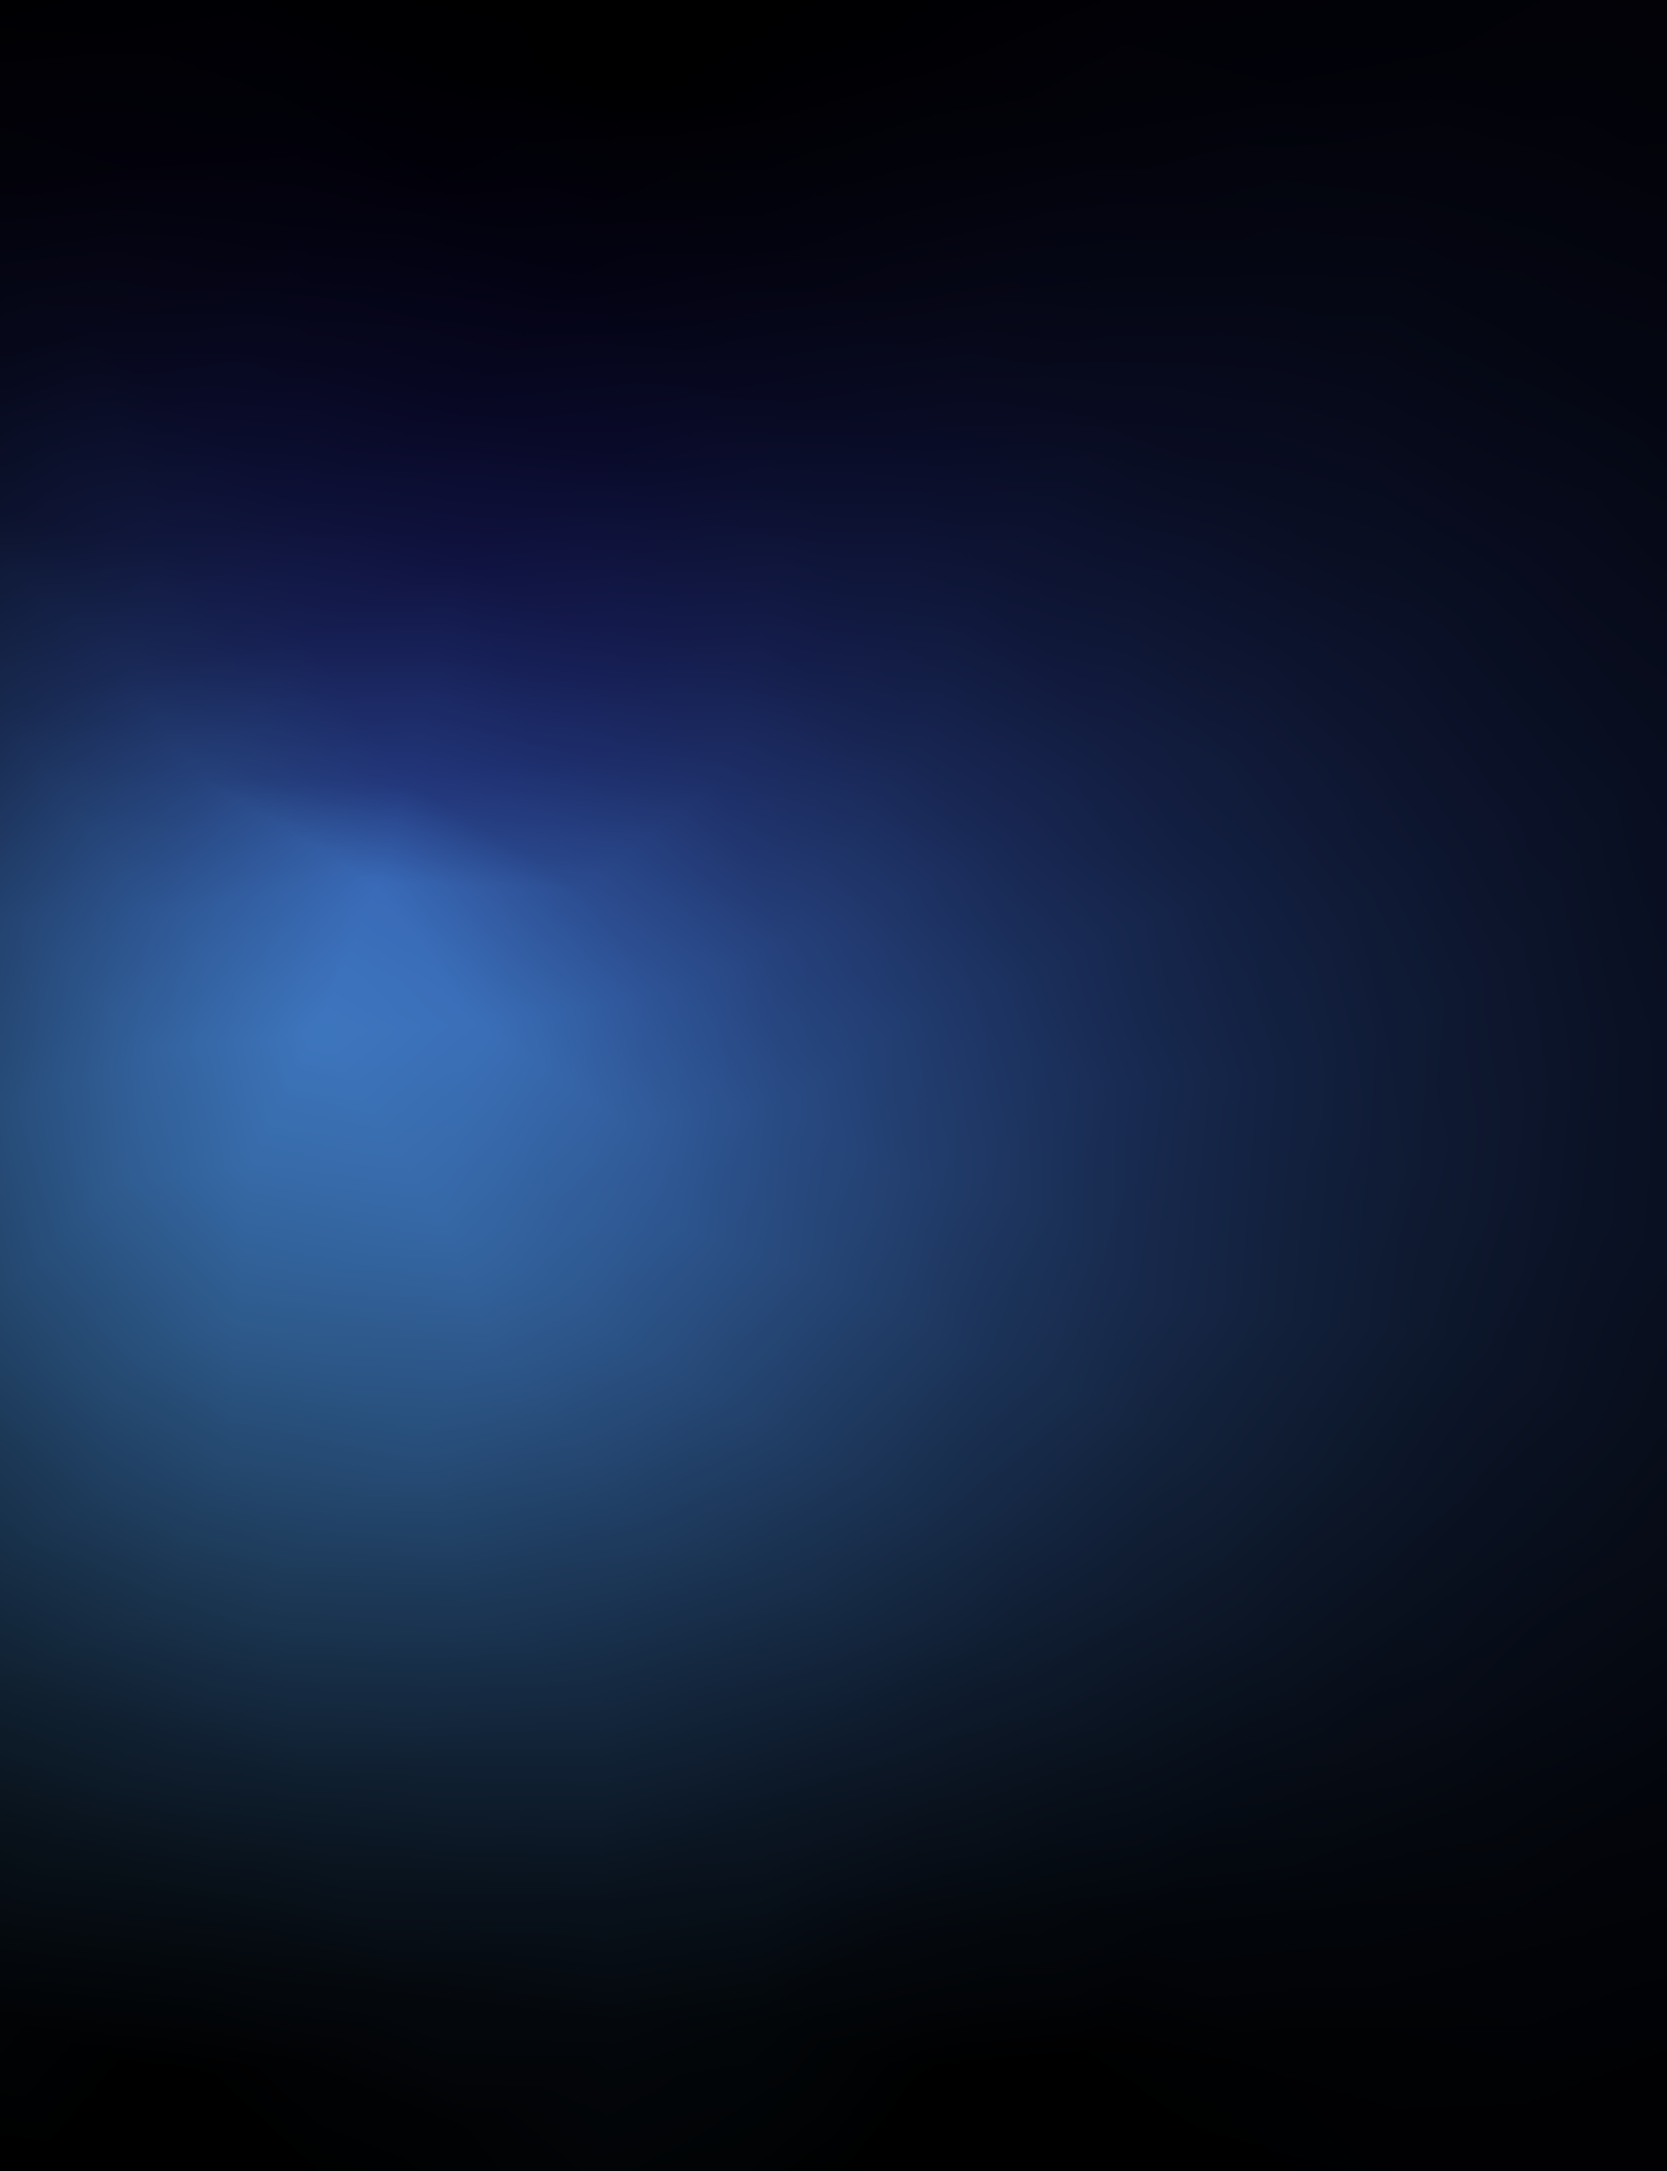
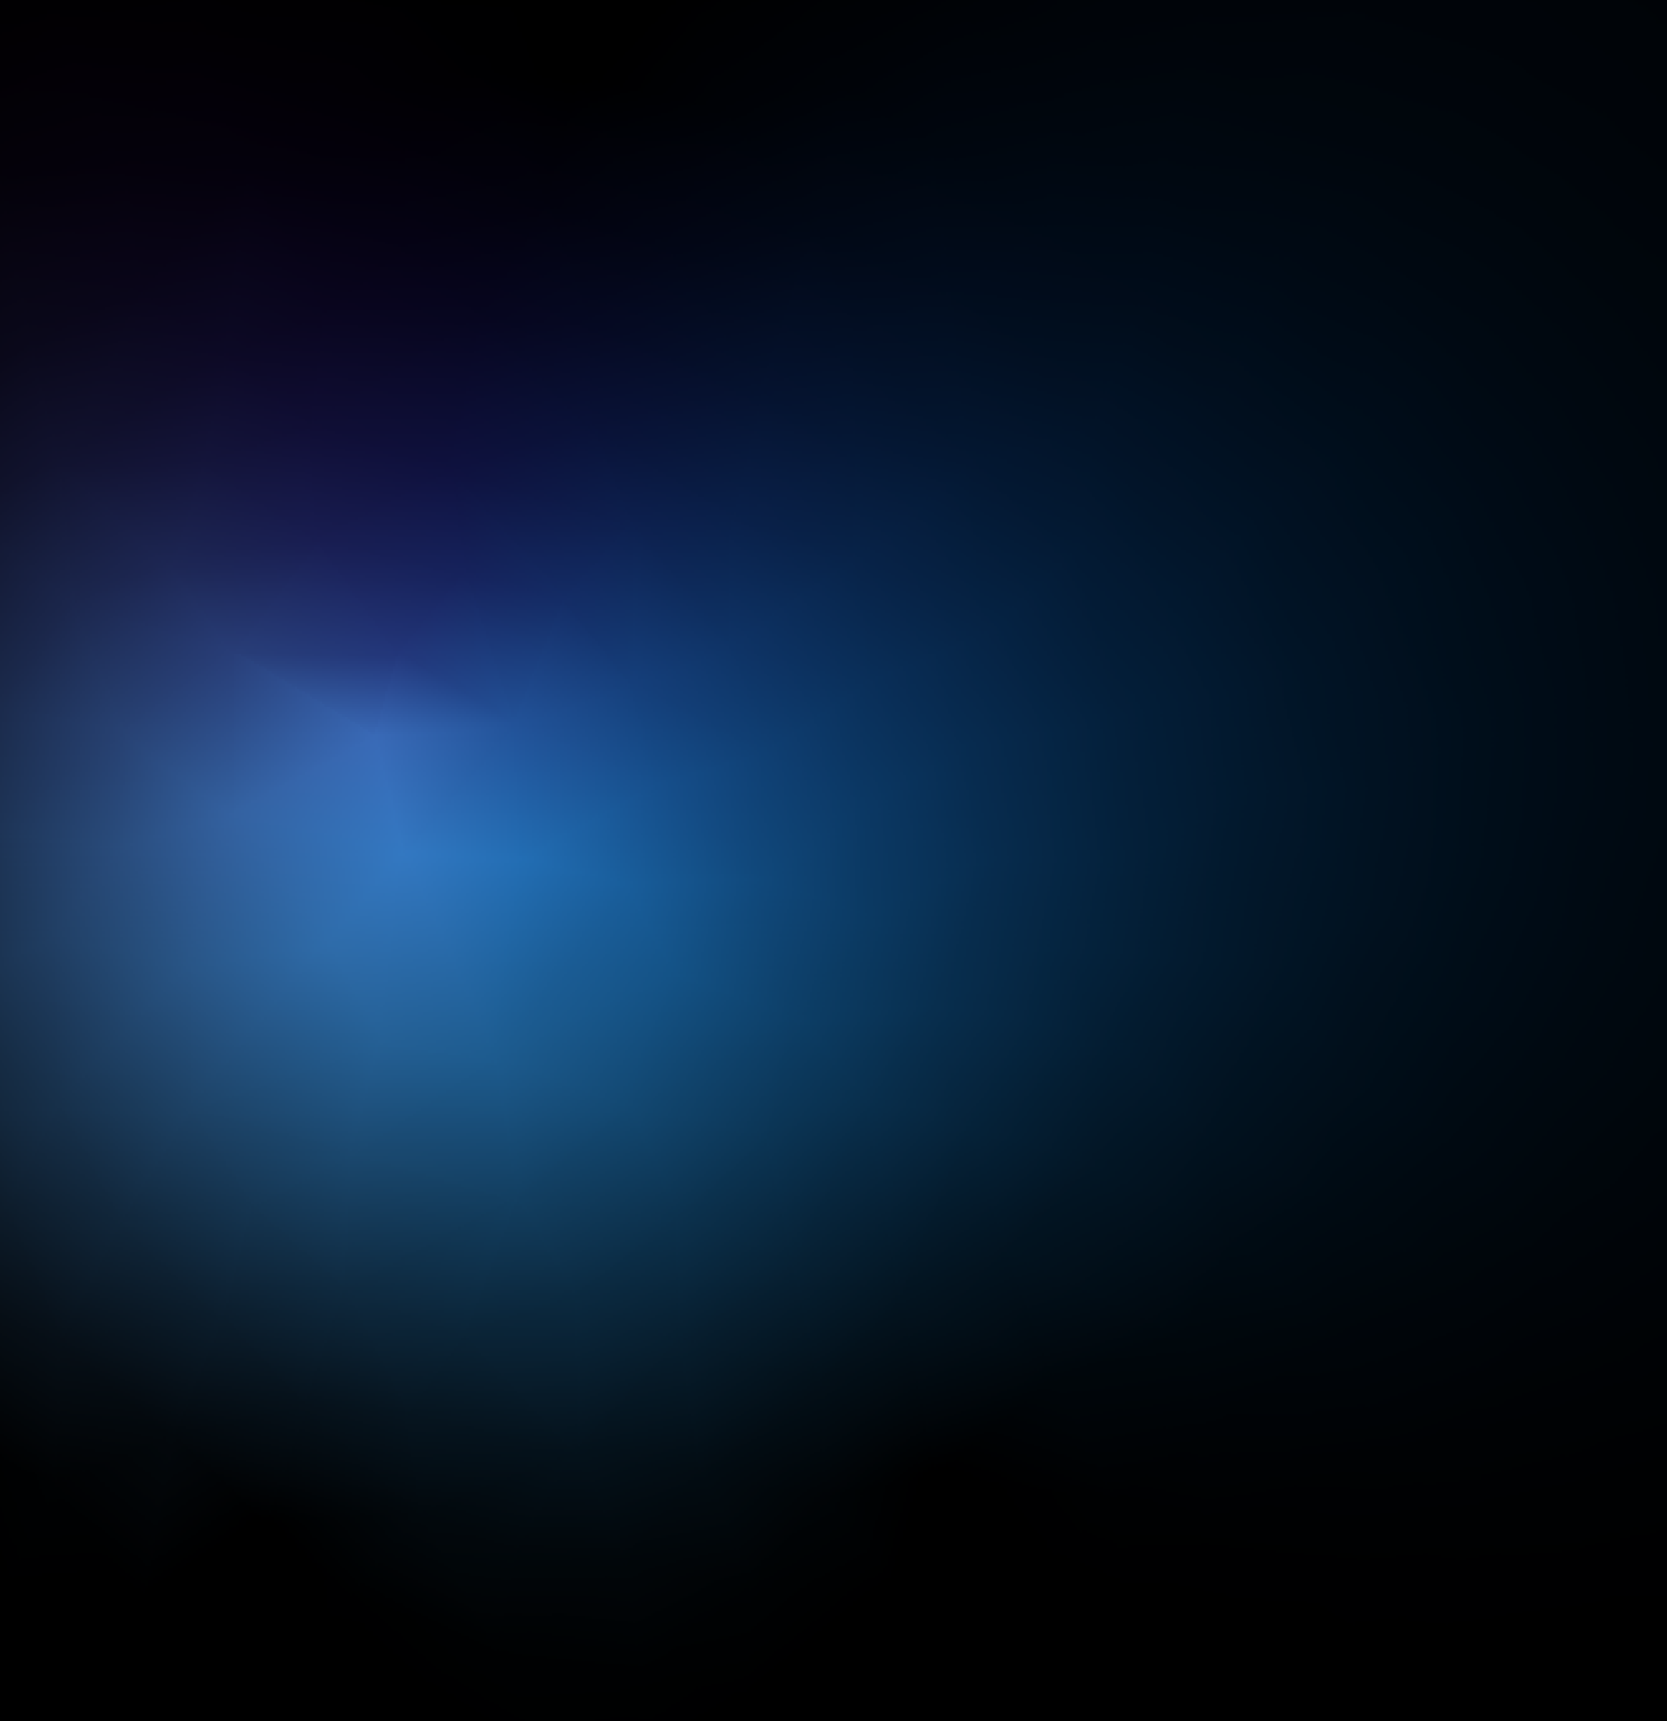
Fix background issues with new image files.

Changed region(s): [[0.3418, 0.4671, 0.8389, 0.7785], [0.0, 0.3426, 0.1243, 0.8408], [0.1554, 0.3737, 0.2486, 0.4048]]

diff --git a/app/components/Projects.js b/app/components/Projects.js
@@ -8,14 +8,14 @@ export default function Projects({ className }) {
     {
       title: "MindsMe",
       text: "Developed for the Ministry of Justice, MindsMe is a web app for prison leavers that provides assessment of a brain injury, with the ability for them and their probation officer to track their mental wellbeing. <br/><br/> As part of a small team in a fullstack role my responsibilities included user surveys, tools and analytics dashboard.",
-      tech: ["Laravel", "Vue.js", "MySQL", "SCSS", "HTML5"],
+      tech: ["Laravel", "Vue.js", "MySQL", "SCSS", "Vuetify"],
       url: "https://orbitalinnovations.com/innovations/apps-and-platforms#mindsme",
 
       wide: false,
     },
     {
       title: "Orbital Global websites",
-      text: "A suite of websites for Orbital Global, which include blogging features enabled by my integrating Strapi headless CMS integration with Next.js. As the sole developer working closely with a designer these sites includes custom animations done with a combination of CSS, framer motion and lottie files.",
+      text: "A suite of marketing websites for Orbital Global, which include blogging features enabled by my integrating Strapi headless CMS integration with Next.js to make four static generated sites. As the sole developer working closely with a designer, I also created custom animations using a combination of CSS, framer motion and lottie files.",
       tech: ["Next.js", "React", "Tailwind", "HTML5", "Strapi"],
       url: "https://orbitalmedia.com",
       image: {
@@ -29,8 +29,8 @@ export default function Projects({ className }) {
     },
     {
       title: "Discover More",
-      text: "Suffolk Libraries Discover More allows people to discover events based on their mood preferences.",
-      tech: ["Laravel", "Vue", "Tailwind", "HTML5", "PHP", "MySQL"],
+      text: "Suffolk Libraries Discover More allows people to discover events based on their mood preferences. The site includes an extensive search feature with filters as well as a recommendation feature where events are recommended based on user responses to a questionnaire, using an AI API recommendation engine. The site also visualises user response and event data in charts and heat-maps for administrators.",
+      tech: ["Laravel", "Vue", "Inertia", "Tailwind", "PHP", "MySQL"],
       url: "https://discovermore.suffolklibraries.co.uk/",
       image: {
         url: "/images/projects/discover-more.png",
@@ -57,7 +57,7 @@ export default function Projects({ className }) {
     // },
     {
       title: "Innovation Labs",
-      text: "Innovation Labs Group provides experienced, tried and tested support for innovation, entrepreneurship and skills acquisition, set within a friendly, supportive and cost effective coworking environment.",
+      text: "Innovation Labs are a range of co-working hubs which provide support for entrepreneurship and skills acquisition. I was primarily responsible for building the website, which make user of multi level authentication for different user groups, Stripe payment API for managing subscriptions and the Google maps API.",
       tech: ["Laravel", "Vue.js", "SCSS", "Bootstrap", "MySQL"],
       url: "https://innovationlabsgroup.com/",
 
@@ -128,13 +128,6 @@ export default function Projects({ className }) {
                   </li>
                 ))}
               </ul>
-              {/* <ul className="grid grid-cols-3 rounded-lg overflow-hidden">
-                {project.tech.map((item, index) => (
-                  <li className="text-sm py-1 px-5 bg-navy/50" key={index}>
-                    {item}
-                  </li>
-                ))}
-              </ul> */}
 
               <a
                 className="text-lg border-offwhite border rounded-3xl px-5 py-2.5 mt-auto flex justify-between items-center gap-11 hover:gap-14 hover:bg-white/10 transition-all"

diff --git a/app/page.js b/app/page.js
@@ -11,24 +11,24 @@ import Footer from "./components/Footer";
 export default function Home() {
   return (
     <>
-      <div className="min-h-[899px] bg-gradient-1 bg-cover bg-no-repeat bg-center">
+      <div className="bg-gradient-1 bg-no-repeat bg-right-top bg-cover">
         <Navbar />
 
-        <Banner className="py-60 md:py-40" />
+        <Banner className="py-60 md:py-48" />
 
-        <About className="md:py-36" />
+        <About className="md:pt-48" />
       </div>
 
-      <div className="min-h-[1823px] bg-gradient-2 bg-cover bg-no-repeat bg-center">
-        <Projects className="mt-80 mb-40" />
+      <div className="bg-gradient-2 bg-contain bg-no-repeat bg-left-top">
+        <Projects className="pt-40" />
 
-        <Skills className="" />
+        <Skills className="pt-40" />
       </div>
 
-      <div className="min-h-[653px] bg-gradient-3 bg-cover bg-no-repeat bg-top pt-32">
-        <Contact className="mb-40" />
+      <div className="bg-gradient-3 bg-no-repeat bg-left-top bg-cover">
+        <Contact className="pt-64 pb-32" />
 
-        <Footer className="my-14" />
+        <Footer className="pb-14" />
       </div>
     </>
   );

diff --git a/app/components/Navbar.js b/app/components/Navbar.js
@@ -43,7 +43,7 @@ export default function Navbar() {
       </div>
 
       <motion.div
-        className="absolute right-4 md:right-8 top-28 md:top-64 inline-flex flex-col gap-4 with-line-vertical"
+        className="absolute right-4 md:right-8 top-28 md:top-72 inline-flex flex-col gap-4 with-line-vertical"
         variants={enterTop}
         initial="hidden"
         animate="visible"

diff --git a/app/utils/animations.js b/app/utils/animations.js
@@ -16,7 +16,8 @@ export const enterTop = {
     transition: {
       type: "spring",
       bounce: 0.2,
-      delay: 2.6,
+      duration: 1.2,
+      delay: 2.5,
     },
   },
   hidden: { y: -500 },
